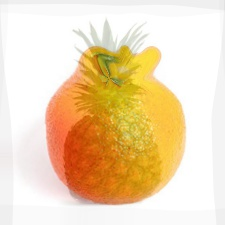
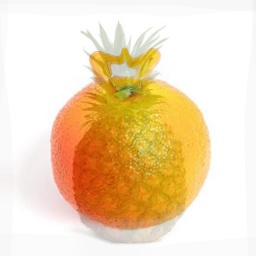
refactoring t parameter

diff --git a/test.py b/test.py
@@ -10,15 +10,15 @@ for line in input:
     output.write("\n")
 '''
 
-img1 = io.imread('results_info/image1_step_0.jpg')
-img2 = io.imread('results_info/image1_step_1.jpg')
-img3= io.imread('results_info/image1_step_2.jpg')
-img4 = io.imread('results_info/image2_step_0.jpg')
-img5 = io.imread('results_info/image2_step_1.jpg')
-img6= io.imread('results_info/image2_step_2.jpg')
-img7 = io.imread('results/image2_step_0.jpg')
-img8 = io.imread('results/image2_step_1.jpg')
-img9= io.imread('results/image2_step_2.jpg')
+img1 = io.imread('results/image1_step_0.jpg')
+img2 = io.imread('results/image1_step_1.jpg')
+img3= io.imread('results/image1_step_2.jpg')
+img4 = io.imread('results/image2_step_0.jpg')
+img5 = io.imread('results/image2_step_1.jpg')
+img6= io.imread('results/image2_step_2.jpg')
+img7 = io.imread('results/image3_step_0.jpg')
+img8 = io.imread('results/image3_step_1.jpg')
+img9= io.imread('results/image3_step_2.jpg')
 fig, xs = plt.subplots(3, 3)
 xs[0][0].imshow(img1, cmap="gray")
 xs[0][0].set_title("Blend t=0")

diff --git a/Morph.py b/Morph.py
@@ -13,7 +13,7 @@ class Morph:
         :param lines: lines of correspondance, .txt file
         :param N: number of inter-¡mediary images
         '''
-        self.dim= 225
+        self.dim= 256
         self.lines = lines
         self.N = N
         self.t= 1/(N+1)# morph step t
@@ -60,7 +60,7 @@ class Morph:
         step=self.t
         for i in range(self.N):
             im1= self.warp(self.src_image, self.dest_image, self.t)
-            im2= self.warp(self.dest_image, self.src_image, self.t)
+            im2= self.warp(self.dest_image, self.src_image, 1-self.t)
             im_t=self.blend(im1, im2, self.t)
             plt.imsave("results/image_step_" + str(i) + ".jpg", im_t)
             self.t+=step
